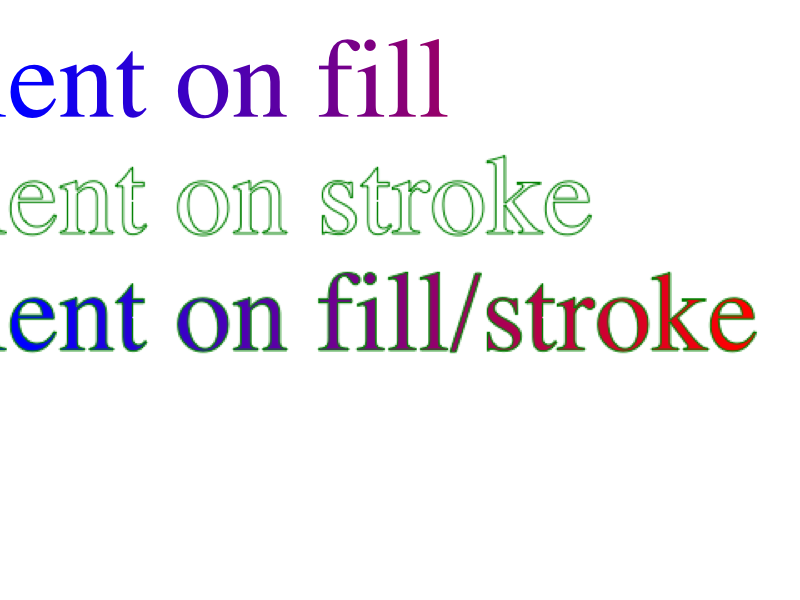
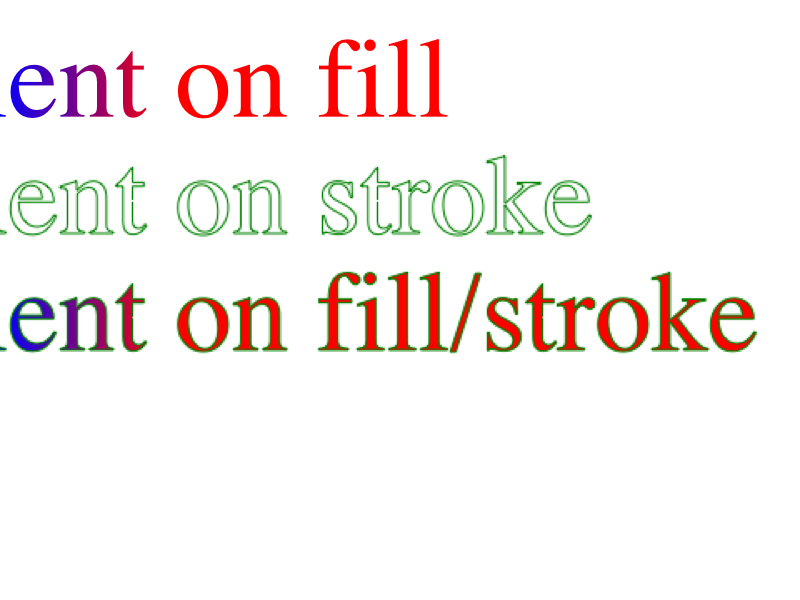
2006-12-26  Eric Seidel  <eric@webkit.org>
Reviewed by rwlbuis.

        Replace bogus SVGLength::isFraction() method with valueAsPercentage() to fix:
        http://bugs.webkit.org/show_bug.cgi?id=11973

        * ksvg2/svg/SVGLength.cpp:
        (WebCore::SVGLength::valueInSpecifiedUnits): remove extra spaces
        (WebCore::SVGLength::valueAsPercentage): new method
        * ksvg2/svg/SVGLength.h:
        * ksvg2/svg/SVGLinearGradientElement.cpp:
        (WebCore::SVGLinearGradientElement::buildGradient): use valueAsPercentage()
        * ksvg2/svg/SVGPatternElement.cpp:
        (WebCore::SVGPatternElement::drawPatternContentIntoTile): return if malloc fails
        * ksvg2/svg/SVGRadialGradientElement.cpp:
        (WebCore::SVGRadialGradientElement::buildGradient): use valueAsPercentage()
        * platform/graphics/cg/GraphicsContextCG.cpp:
        (WebCore::GraphicsContext::createImageBuffer): return 0 if malloc fails
        * platform/graphics/svg/cg/SVGPaintServerGradientCg.cpp:
        (WebCore::SVGPaintServerGradient::setup): return if malloc fails
        * platform/graphics/svg/cg/SVGResourceMaskerCg.mm:
        (WebCore::SVGResourceMasker::applyMask): add comment about possible crash

Identifier: 15466@main
git-svn-id: https://svn.webkit.org/repository/webkit/trunk@18421 268f45cc-cd09-0410-ab3c-d52691b4dbfc

diff --git a/WebCore/ksvg2/svg/SVGRadialGradientElement.cpp b/WebCore/ksvg2/svg/SVGRadialGradientElement.cpp
@@ -87,31 +87,11 @@ void SVGRadialGradientElement::buildGradient(PassRefPtr<SVGPaintServerGradient> 
     float _cx, _cy, _r, _fx, _fy;
 
     if (bbox) {
-        _cx = cx().valueInSpecifiedUnits();
-        if (SVGLength::isFraction(cx()))
-            _cx *= 100.0;
-
-        _cy = cy().valueInSpecifiedUnits();
-        if (SVGLength::isFraction(cy()))
-            _cy *= 100.0;
-
-        _r = r().valueInSpecifiedUnits();
-        if (SVGLength::isFraction(r()))
-            _r *= 100.0;
-
-        if (fxSet) {
-            _fx = fx().valueInSpecifiedUnits();
-            if (SVGLength::isFraction(fx()))
-                _fx *= 100.0;
-        } else
-            _fx = _cx;
-        
-        if (fySet) {
-            _fy = fy().valueInSpecifiedUnits();
-            if (SVGLength::isFraction(fy()))
-                _fy *= 100.0;
-        } else
-            _fy = _cy;
+        _cx = cx().valueAsPercentage();
+        _cy = cy().valueAsPercentage();
+        _r = r().valueAsPercentage();
+        _fx = fxSet ? (fx().valueAsPercentage()) : _cx;
+        _fy = fySet ? (fy().valueAsPercentage()) : _cy;
     } else {
         _cx = cx().value();
         _cy = cy().value();
@@ -125,8 +105,7 @@ void SVGRadialGradientElement::buildGradient(PassRefPtr<SVGPaintServerGradient> 
     if (gradientTransform()->numberOfItems() > 0)
         mat = gradientTransform()->consolidate()->matrix();
 
-    DeprecatedString ref = href().deprecatedString();
-    RefPtr<SVGPaintServer> pserver = getPaintServerById(document(), ref.mid(1));
+    RefPtr<SVGPaintServer> pserver = getPaintServerById(document(), href().substring(1));
 
     if (pserver && (pserver->type() == RadialGradientPaintServer || pserver->type() == LinearGradientPaintServer)) {
         bool isRadial = pserver->type() == RadialGradientPaintServer;

diff --git a/WebCore/ksvg2/svg/SVGLinearGradientElement.cpp b/WebCore/ksvg2/svg/SVGLinearGradientElement.cpp
@@ -78,21 +78,10 @@ void SVGLinearGradientElement::buildGradient(PassRefPtr<SVGPaintServerGradient> 
     float _x1, _y1, _x2, _y2;
 
     if (bbox) {
-        _x1 = x1().valueInSpecifiedUnits();
-        if (SVGLength::isFraction(x1()))
-            _x1 *= 100.0;
-
-        _y1 = y1().valueInSpecifiedUnits();
-        if (SVGLength::isFraction(y1()))
-            _y1 *= 100.0;
-
-        _x2 = x2().valueInSpecifiedUnits();
-        if (SVGLength::isFraction(x2()))
-            _x2 *= 100.0;
-
-        _y2 = y2().valueInSpecifiedUnits();
-        if (SVGLength::isFraction(y2()))
-            _y2 *= 100.0;
+        _x1 = x1().valueAsPercentage();
+        _y1 = y1().valueAsPercentage();
+        _x2 = x2().valueAsPercentage();
+        _y2 = y2().valueAsPercentage();
     } else {
         _x1 = x1().value();
         _y1 = y1().value();
@@ -105,8 +94,7 @@ void SVGLinearGradientElement::buildGradient(PassRefPtr<SVGPaintServerGradient> 
     if (gradientTransform()->numberOfItems() > 0)
         mat = gradientTransform()->consolidate()->matrix();
 
-    DeprecatedString ref = href().deprecatedString();
-    RefPtr<SVGPaintServer> pserver = getPaintServerById(document(), ref.mid(1));
+    RefPtr<SVGPaintServer> pserver = getPaintServerById(document(), href().substring(1));
 
     if (pserver && (pserver->type() == RadialGradientPaintServer || pserver->type() == LinearGradientPaintServer)) {
         bool isLinear = pserver->type() == LinearGradientPaintServer;

diff --git a/WebCore/ksvg2/svg/SVGPatternElement.cpp b/WebCore/ksvg2/svg/SVGPatternElement.cpp
@@ -158,21 +158,10 @@ void SVGPatternElement::drawPatternContentIntoTile(const SVGPatternElement* targ
 
     float _x, _y, w, h;
     if (bbox) {
-        _x = x().valueInSpecifiedUnits();
-        if (SVGLength::isFraction(x()))
-            _x *= 100.0;
-
-        _y = y().valueInSpecifiedUnits();
-        if (SVGLength::isFraction(y()))
-            _y *= 100.0;
-
-        w = width().valueInSpecifiedUnits();
-        if (SVGLength::isFraction(width()))
-            w *= 100.0;
-
-        h = height().valueInSpecifiedUnits();
-        if (SVGLength::isFraction(height()))
-            h *= 100.0;
+        _x = x().valueAsPercentage();
+        _y = y().valueAsPercentage();
+        w = width().valueAsPercentage();
+        h = height().valueAsPercentage();
     } else {
         _x = x().value();
         _y = y().value();
@@ -180,7 +169,7 @@ void SVGPatternElement::drawPatternContentIntoTile(const SVGPatternElement* targ
         h = height().value();
     }
 
-    ImageBuffer* patternImage(GraphicsContext::createImageBuffer(IntSize(lroundf(w), lroundf(h)), false));
+    ImageBuffer* patternImage = GraphicsContext::createImageBuffer(IntSize(lroundf(w), lroundf(h)), false);
     if (!patternImage)
         return;
 

diff --git a/WebCore/ksvg2/svg/SVGLength.cpp b/WebCore/ksvg2/svg/SVGLength.cpp
@@ -227,7 +227,15 @@ void SVGLength::setValueInSpecifiedUnits(float value)
 float SVGLength::valueInSpecifiedUnits() const
 {
     return m_valueInSpecifiedUnits;
-}                                                
+}
+
+float SVGLength::valueAsPercentage() const
+{
+    // 100% = 100.0 instead of 1.0 for historical reasons, this could eventually be changed
+    if (extractType(m_unit) == LengthTypePercentage)
+        return valueInSpecifiedUnits();
+    return valueInSpecifiedUnits() * 100.f;
+}
 
 void SVGLength::setValueAsString(const String& s)
 {
@@ -263,11 +271,6 @@ void SVGLength::convertToSpecifiedUnits(unsigned short type)
     float valueInUserUnits = value();
     m_unit = storeUnit(extractMode(m_unit), (SVGLengthType) type);
     setValue(valueInUserUnits);
-}
-
-bool SVGLength::isFraction(const SVGLength& length)
-{
-    return (length.unitType() == LengthTypeNumber && length.value() >= 0 && length.value() <= 1);
 }
 
 double SVGLength::dpi() const

diff --git a/WebCore/platform/graphics/svg/cg/SVGPaintServerGradientCg.cpp b/WebCore/platform/graphics/svg/cg/SVGPaintServerGradientCg.cpp
@@ -267,7 +267,8 @@ bool SVGPaintServerGradient::setup(GraphicsContext*& context, const RenderObject
             IntRect maskRect = const_cast<RenderObject*>(object)->absoluteBoundingBoxRect();
             maskRect = object->absoluteTransform().inverse().mapRect(maskRect);
 
-            ImageBuffer* maskImage(GraphicsContext::createImageBuffer(IntSize(maskRect.width(), maskRect.height()), false));
+            ImageBuffer* maskImage = GraphicsContext::createImageBuffer(IntSize(maskRect.width(), maskRect.height()), false);
+            // FIXME: maskImage could be NULL
             GraphicsContext* maskImageContext = maskImage->context();
 
             maskImageContext->save();

diff --git a/WebCore/ksvg2/svg/SVGLength.h b/WebCore/ksvg2/svg/SVGLength.h
@@ -78,6 +78,8 @@ namespace WebCore {
 
         float valueInSpecifiedUnits() const;
         void setValueInSpecifiedUnits(float);
+        
+        float valueAsPercentage() const;
 
         String valueAsString() const;
         void setValueAsString(const String&);
@@ -86,7 +88,6 @@ namespace WebCore {
         void convertToSpecifiedUnits(unsigned short);
 
         // Helper functions
-        static bool isFraction(const SVGLength&);
         static float PercentageOfViewport(float value, const SVGStyledElement*, SVGLengthMode);
 
     private:

diff --git a/WebCore/platform/graphics/svg/cg/SVGResourceMaskerCg.mm b/WebCore/platform/graphics/svg/cg/SVGResourceMaskerCg.mm
@@ -101,6 +101,8 @@ void SVGResourceMasker::applyMask(GraphicsContext* context, const FloatRect& bou
 
     // Create new graphics context in gray scale mode for image rendering
     OwnPtr<ImageBuffer> grayScaleImage(GraphicsContext::createImageBuffer(maskSize, true));
+    if (!grayScaleImage)
+        return;
     CGContextRef grayScaleContext = grayScaleImage->context()->platformContext();
 
     // Wrap CG context in CI context

diff --git a/WebCore/platform/graphics/cg/GraphicsContextCG.cpp b/WebCore/platform/graphics/cg/GraphicsContextCG.cpp
@@ -779,6 +779,8 @@ ImageBuffer* GraphicsContext::createImageBuffer(const IntSize& size, bool graySc
         bytesPerRow *= 4;
 
     void* imageBuffer = fastMalloc(bytesPerRow * size.height());
+    if (!imageBuffer)
+        return 0;
     memset(imageBuffer, 0, bytesPerRow * size.height());
 
     CGColorSpaceRef colorSpace = grayScale ? CGColorSpaceCreateDeviceGray() : CGColorSpaceCreateDeviceRGB();
